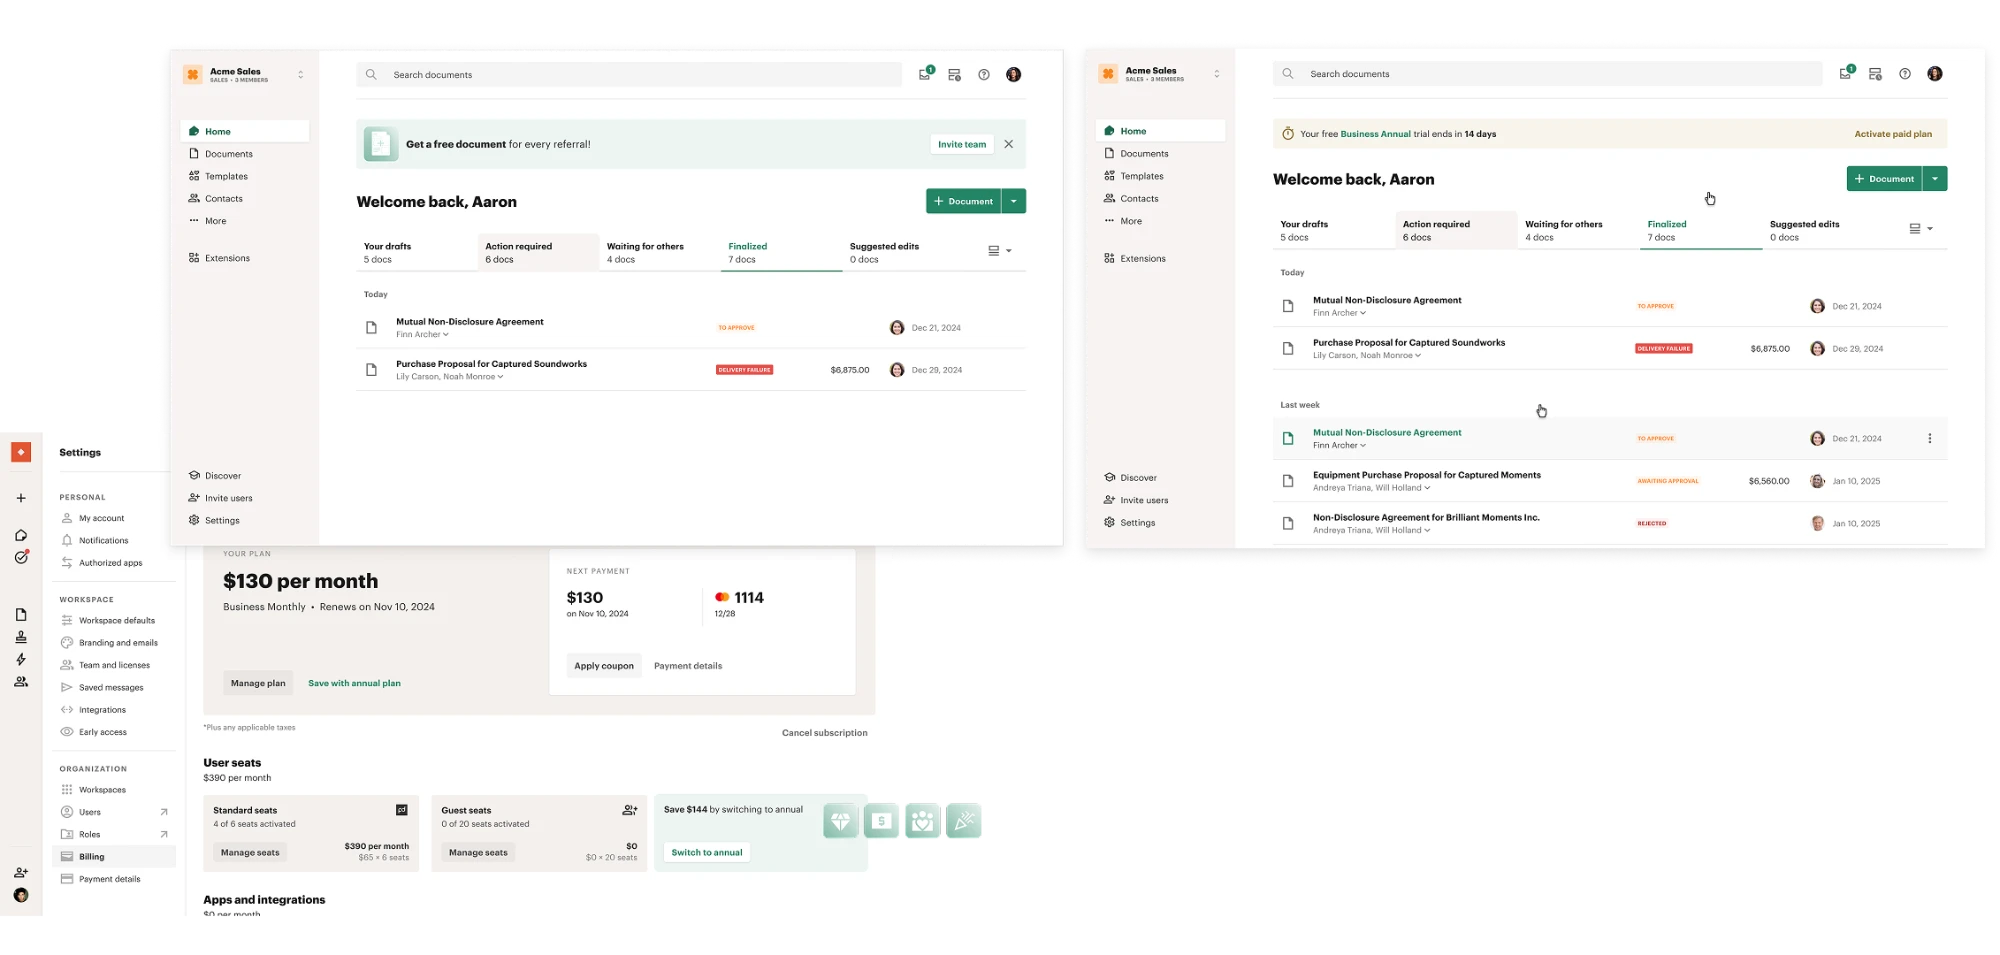
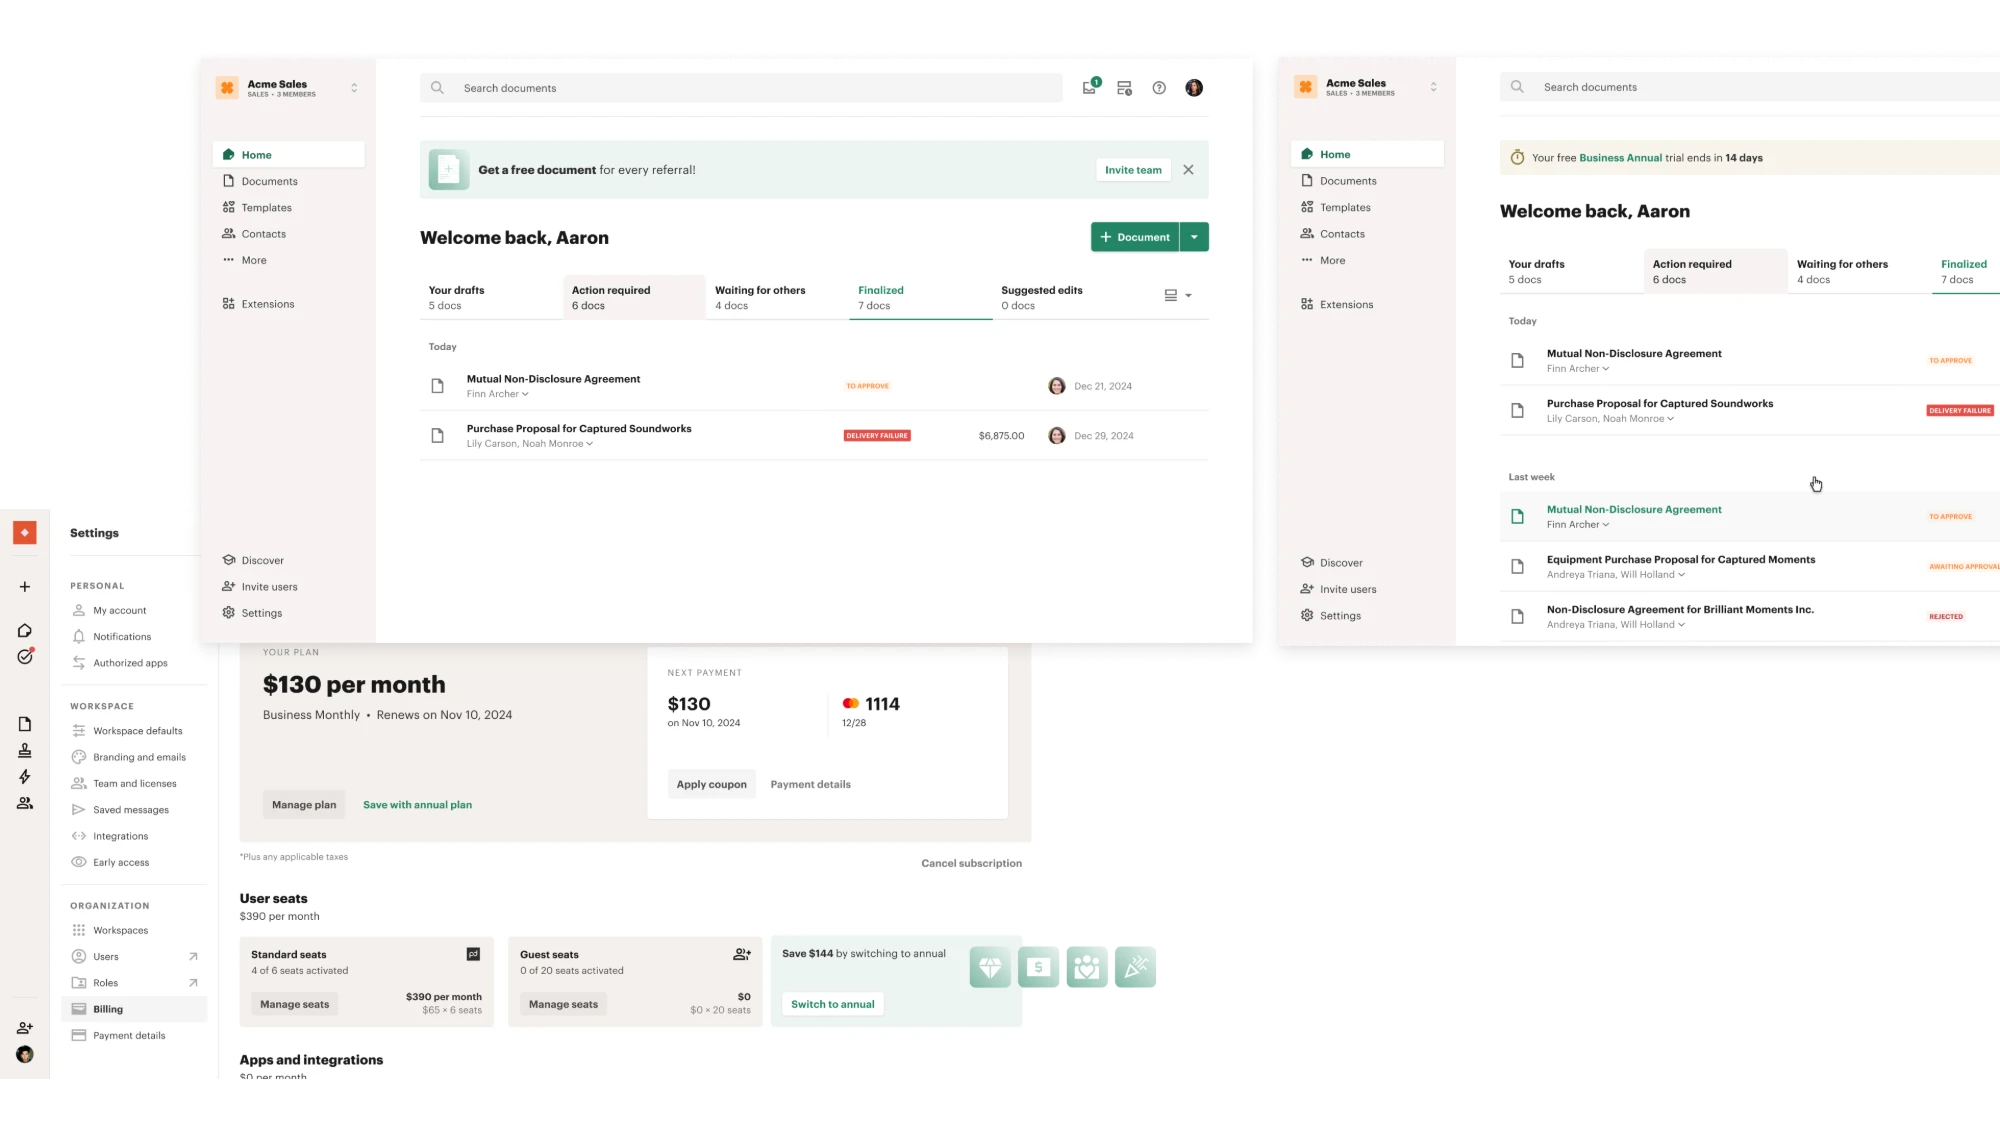
Draft: new nudge composition, shown on white without blending

diff --git a/case-studies/monthly-to-annual.html b/case-studies/monthly-to-annual.html
@@ -369,9 +369,6 @@
       background: #fff;
     }
 
-    /* White-backed composition that takes on the colour of the panel behind it */
-    .media__img--blend { mix-blend-mode: multiply; border-radius: 0; }
-
     /* Strategy pillars */
     .pillars {
       margin-top: 32px;
@@ -741,7 +738,7 @@
         </div>
 
         <figure class="media wide">
-          <img class="media__img media__img--blend" src="/case-studies/images/m2a/nudges-composition.webp" alt="Nudges in the product: a referral banner and a trial-ends banner on the home page, and a save-with-annual link and a switch-to-annual card on the billing page">
+          <img class="media__img" src="/case-studies/images/m2a/nudges-composition.webp" alt="Nudges in the product: a referral banner and a trial-ends banner on the home page, and a save-with-annual link and a switch-to-annual card on the billing page">
         </figure>
       </aside>
 
